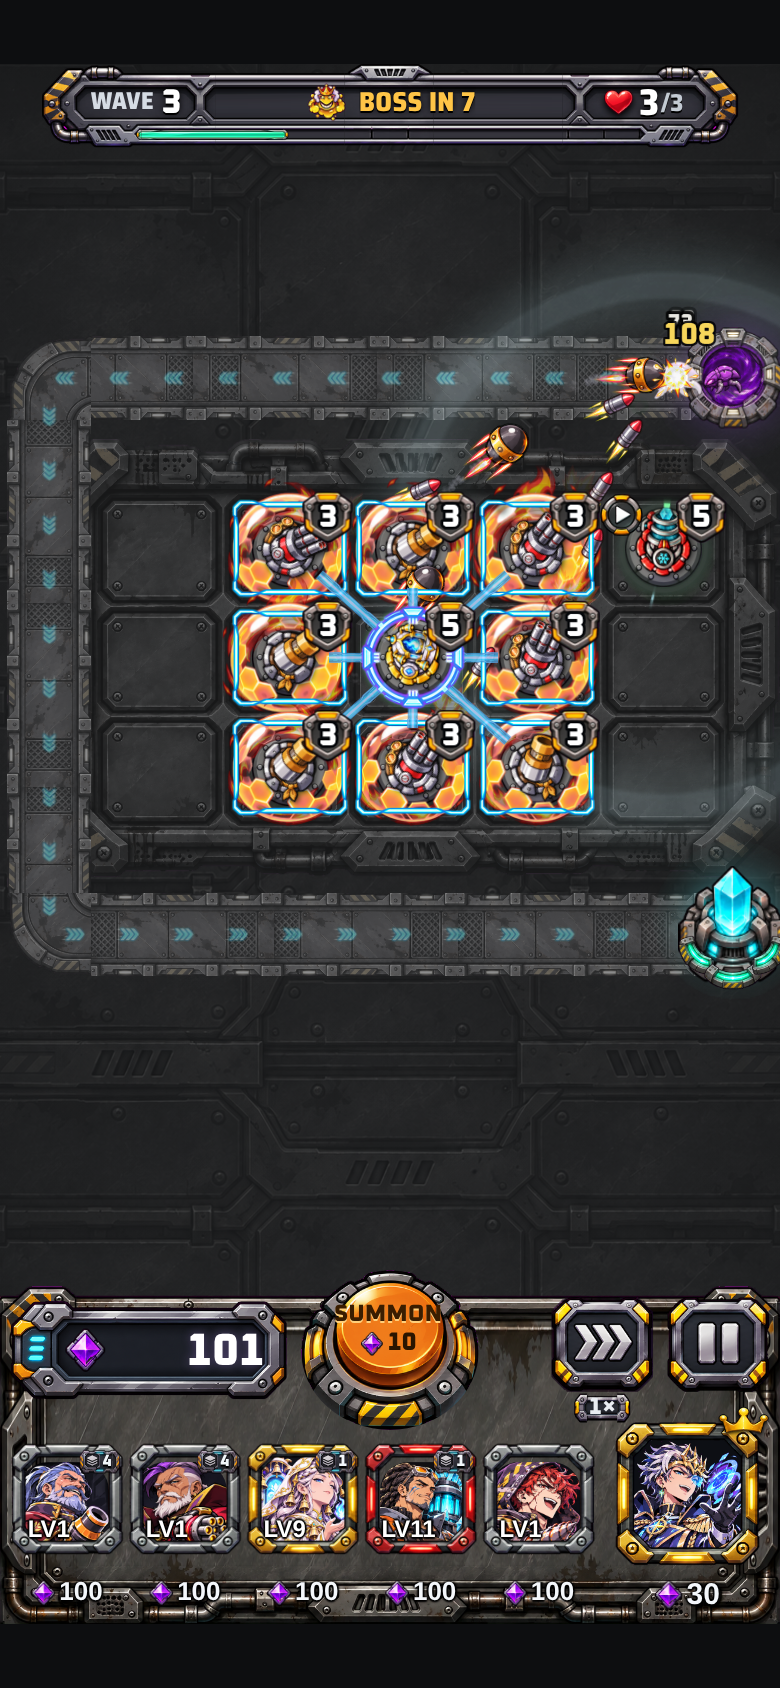
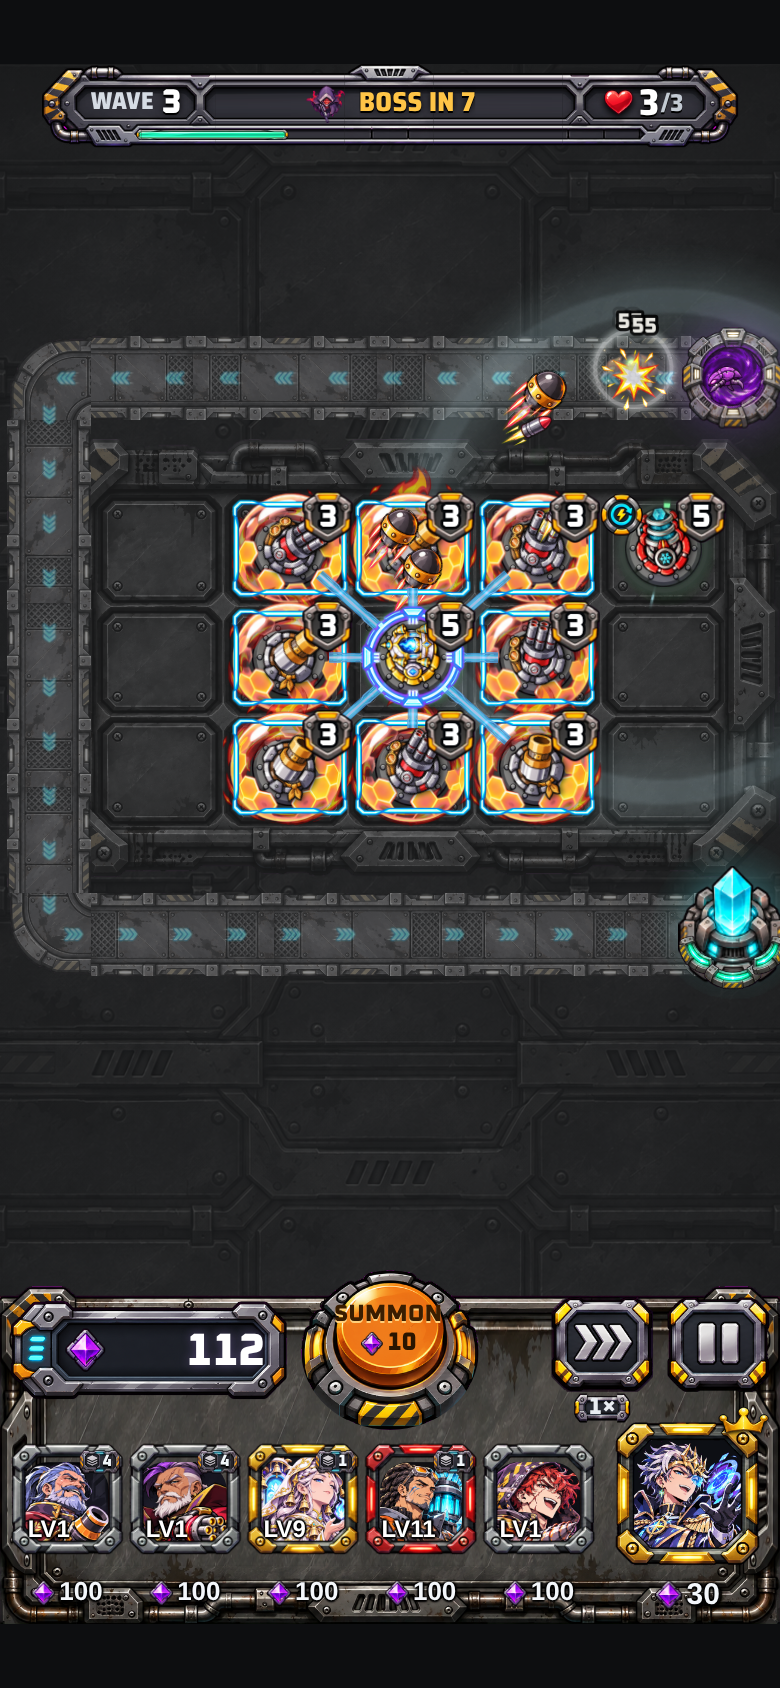
thap VFX P0: lắp ảnh ChatGPT vfxp0_tudong (huy hiệu skill tự phát Cryo/Halo/Chrono), nạp sẵn; ảnh kiểm chụp lại
Claude-Session: https://claude.ai/code/session_016VkJ26f22ubevy4EnREsEV

diff --git a/thap/js/thatso.js b/thap/js/thatso.js
@@ -114,8 +114,8 @@
     sk.chuDong = function (G, B, T) { const tu = T._tuPhat, r = cd.apply(this, arguments); if (r && tu) { T.tuPhatG = G.t; T.tuPhatN = (T.tuPhatN || 0) + 1; } return r; };
   }
   // vẽ trong lớp huy hiệu (nhandien.js — sau đạn/hiệu ứng): góc TRÊN-TRÁI ô (huy hiệu sao ở trên-phải, tấm đếm ở đáy → không chồng)
-  //  ảnh ChatGPT vfxp0_tudong (CAN-VE-p0.json); chưa về → ic_phat (nút phát PNG có sẵn). Nảy 0 → 1.2 → 1 trong 0.18 s, mờ 0.3 s cuối.
-  const ANH_TU = () => 'ic_phat'; // (đổi sang 'vfxp0_tudong' khi ảnh CAN-VE-p0 về — không gọi ảnh chưa có: tránh 404)
+  //  ảnh ChatGPT vfxp0_tudong (CAN-VE-p0.json, vòng mũi tên + tia sét); chưa nạp xong → ic_phat (nút phát PNG có sẵn). Nảy 0 → 1.2 → 1 trong 0.18 s, mờ 0.3 s cuối.
+  const ANH_TU = () => (REN.img('vfxp0_tudong') ? 'vfxp0_tudong' : 'ic_phat'); // ảnh ChatGPT raw_vfxp0_tudong (CAN-VE-p0) — nạp sẵn lúc vào game
   if (typeof ND !== 'undefined' && ND.veHuyHieu) {
     const veHH = ND.veHuyHieu;
     ND.veHuyHieu = function (ctx, h) {
@@ -128,5 +128,5 @@
       ctx.globalAlpha = 1;
     };
   }
-  if (typeof REN !== 'undefined' && REN.CO_DINH) for (const t of ['ic_phat']) REN.CO_DINH.add(t);
+  if (typeof REN !== 'undefined' && REN.CO_DINH) for (const t of ['vfxp0_tudong', 'ic_phat']) { REN.CO_DINH.add(t); try { REN.img(t); } catch (e) { } } // giữ + giải mã sẵn (không giải mã giữa trận)
 })();
